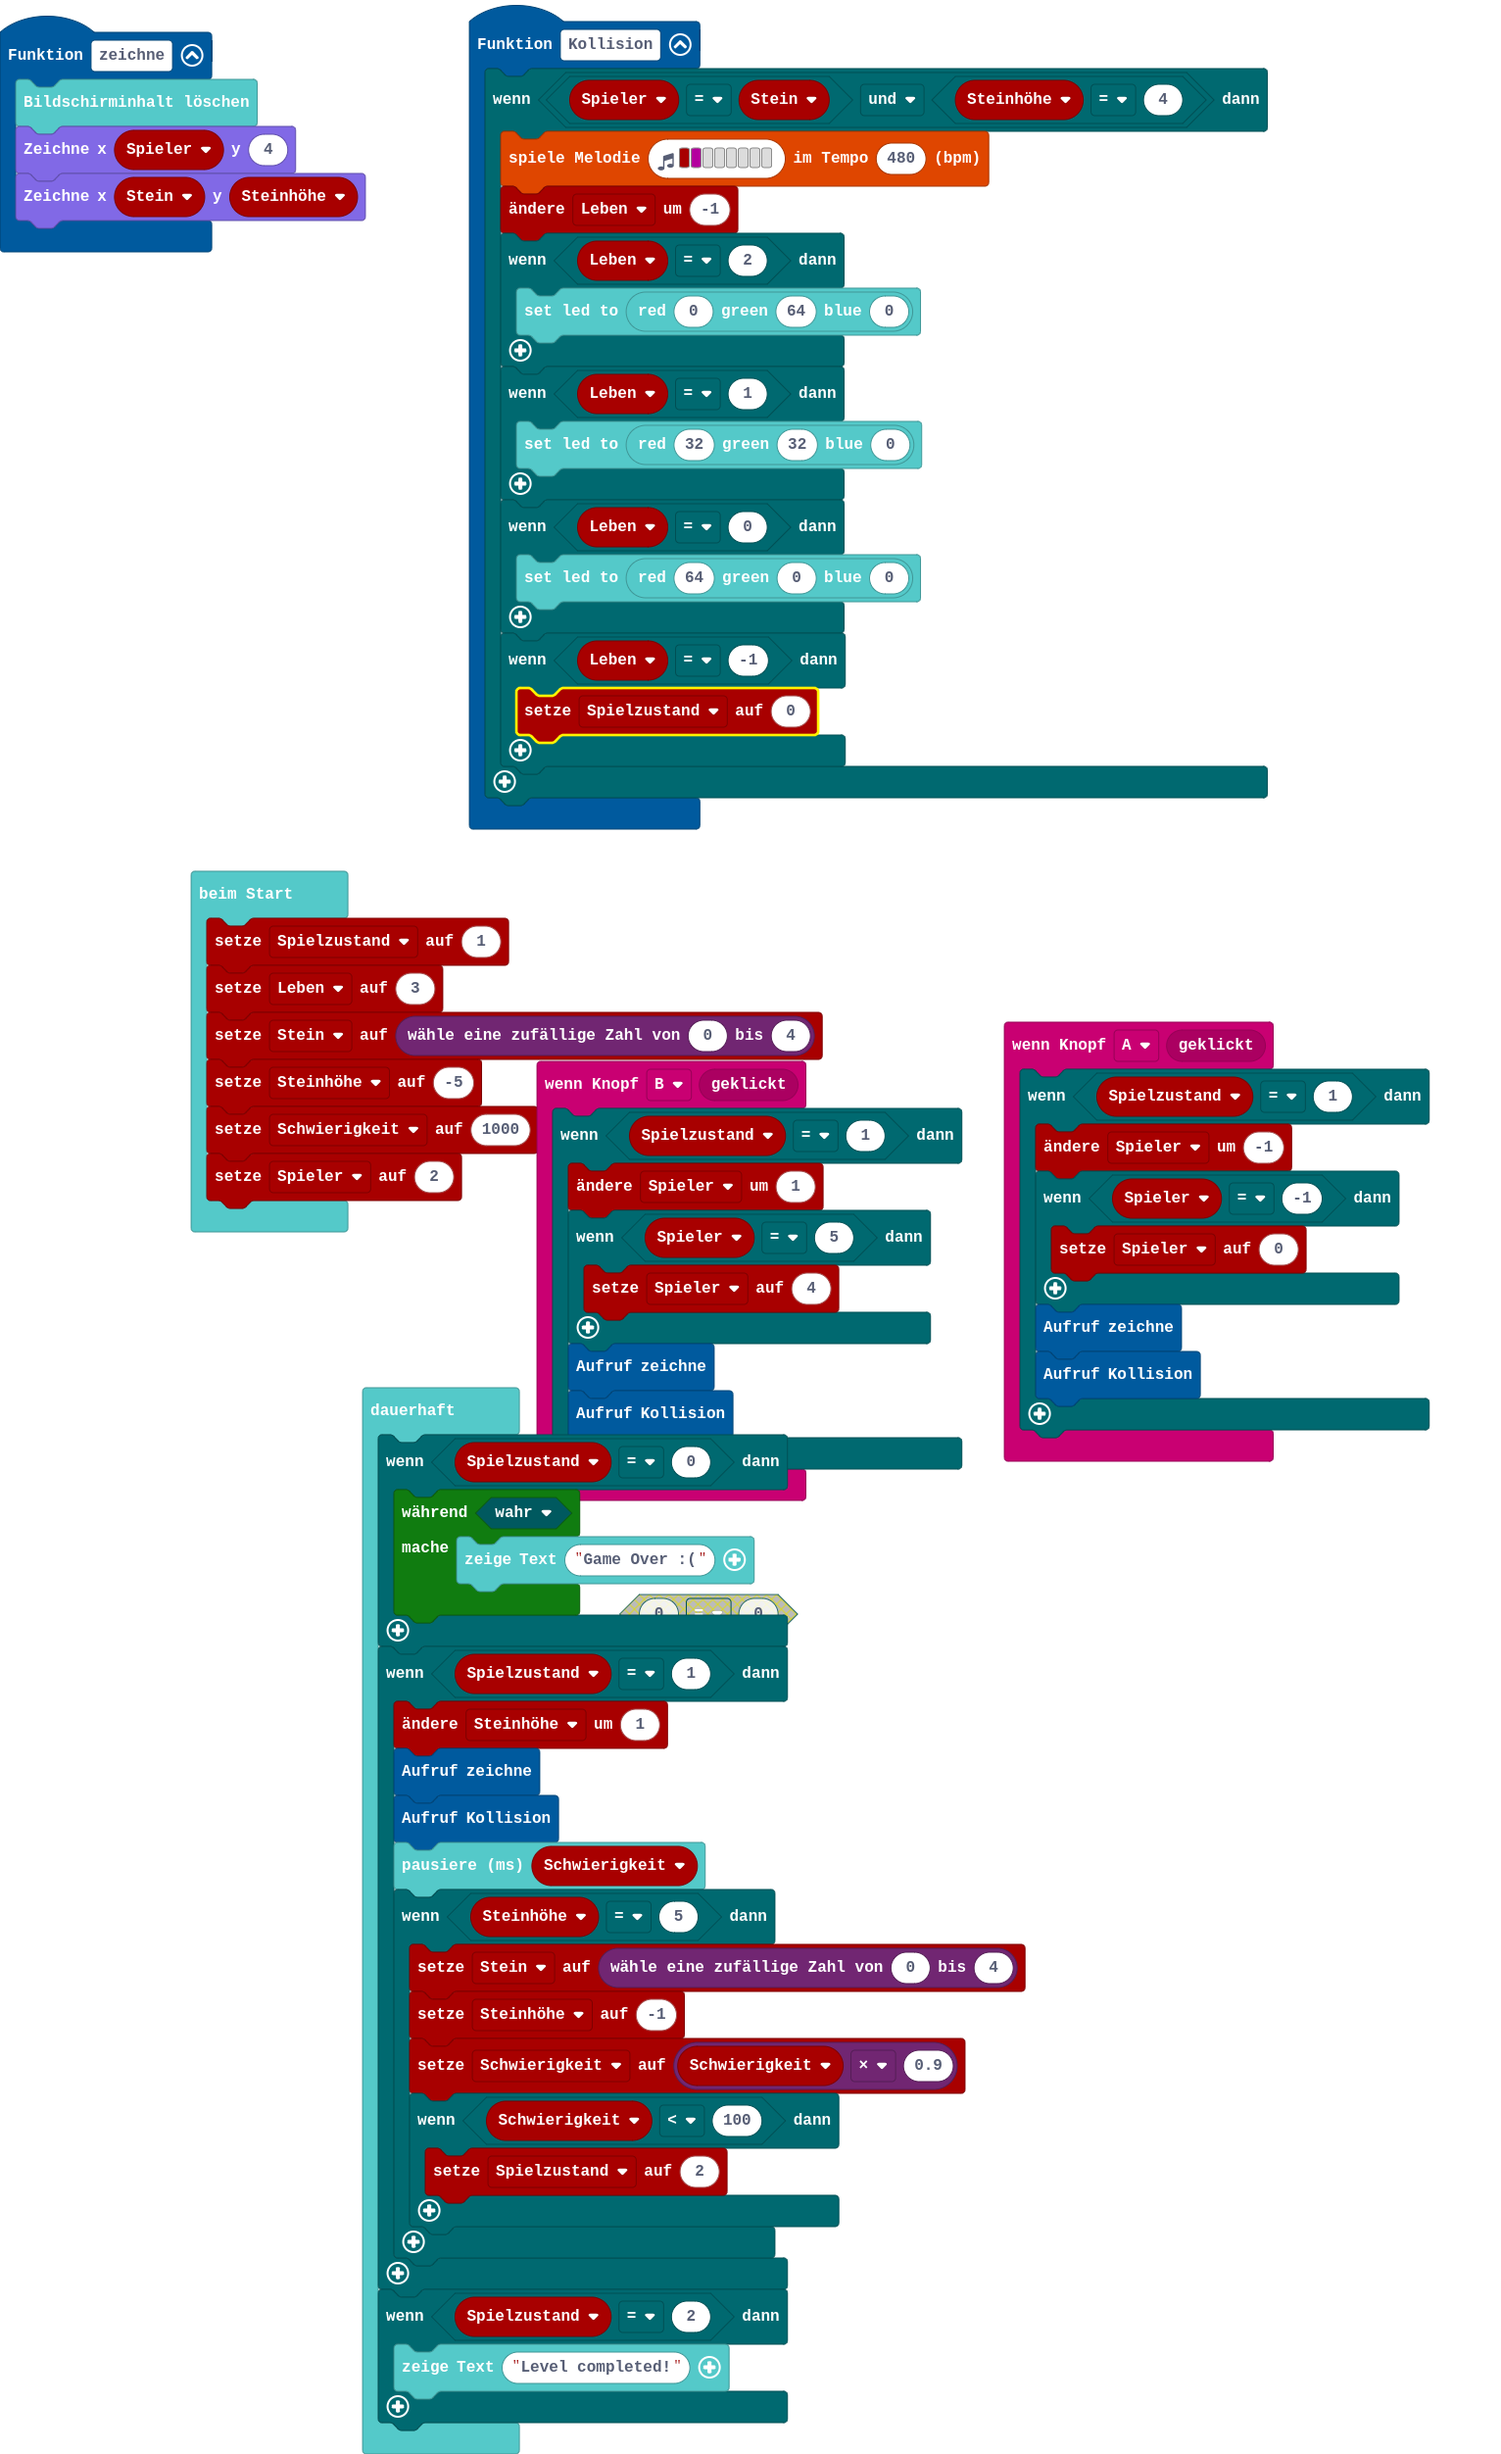
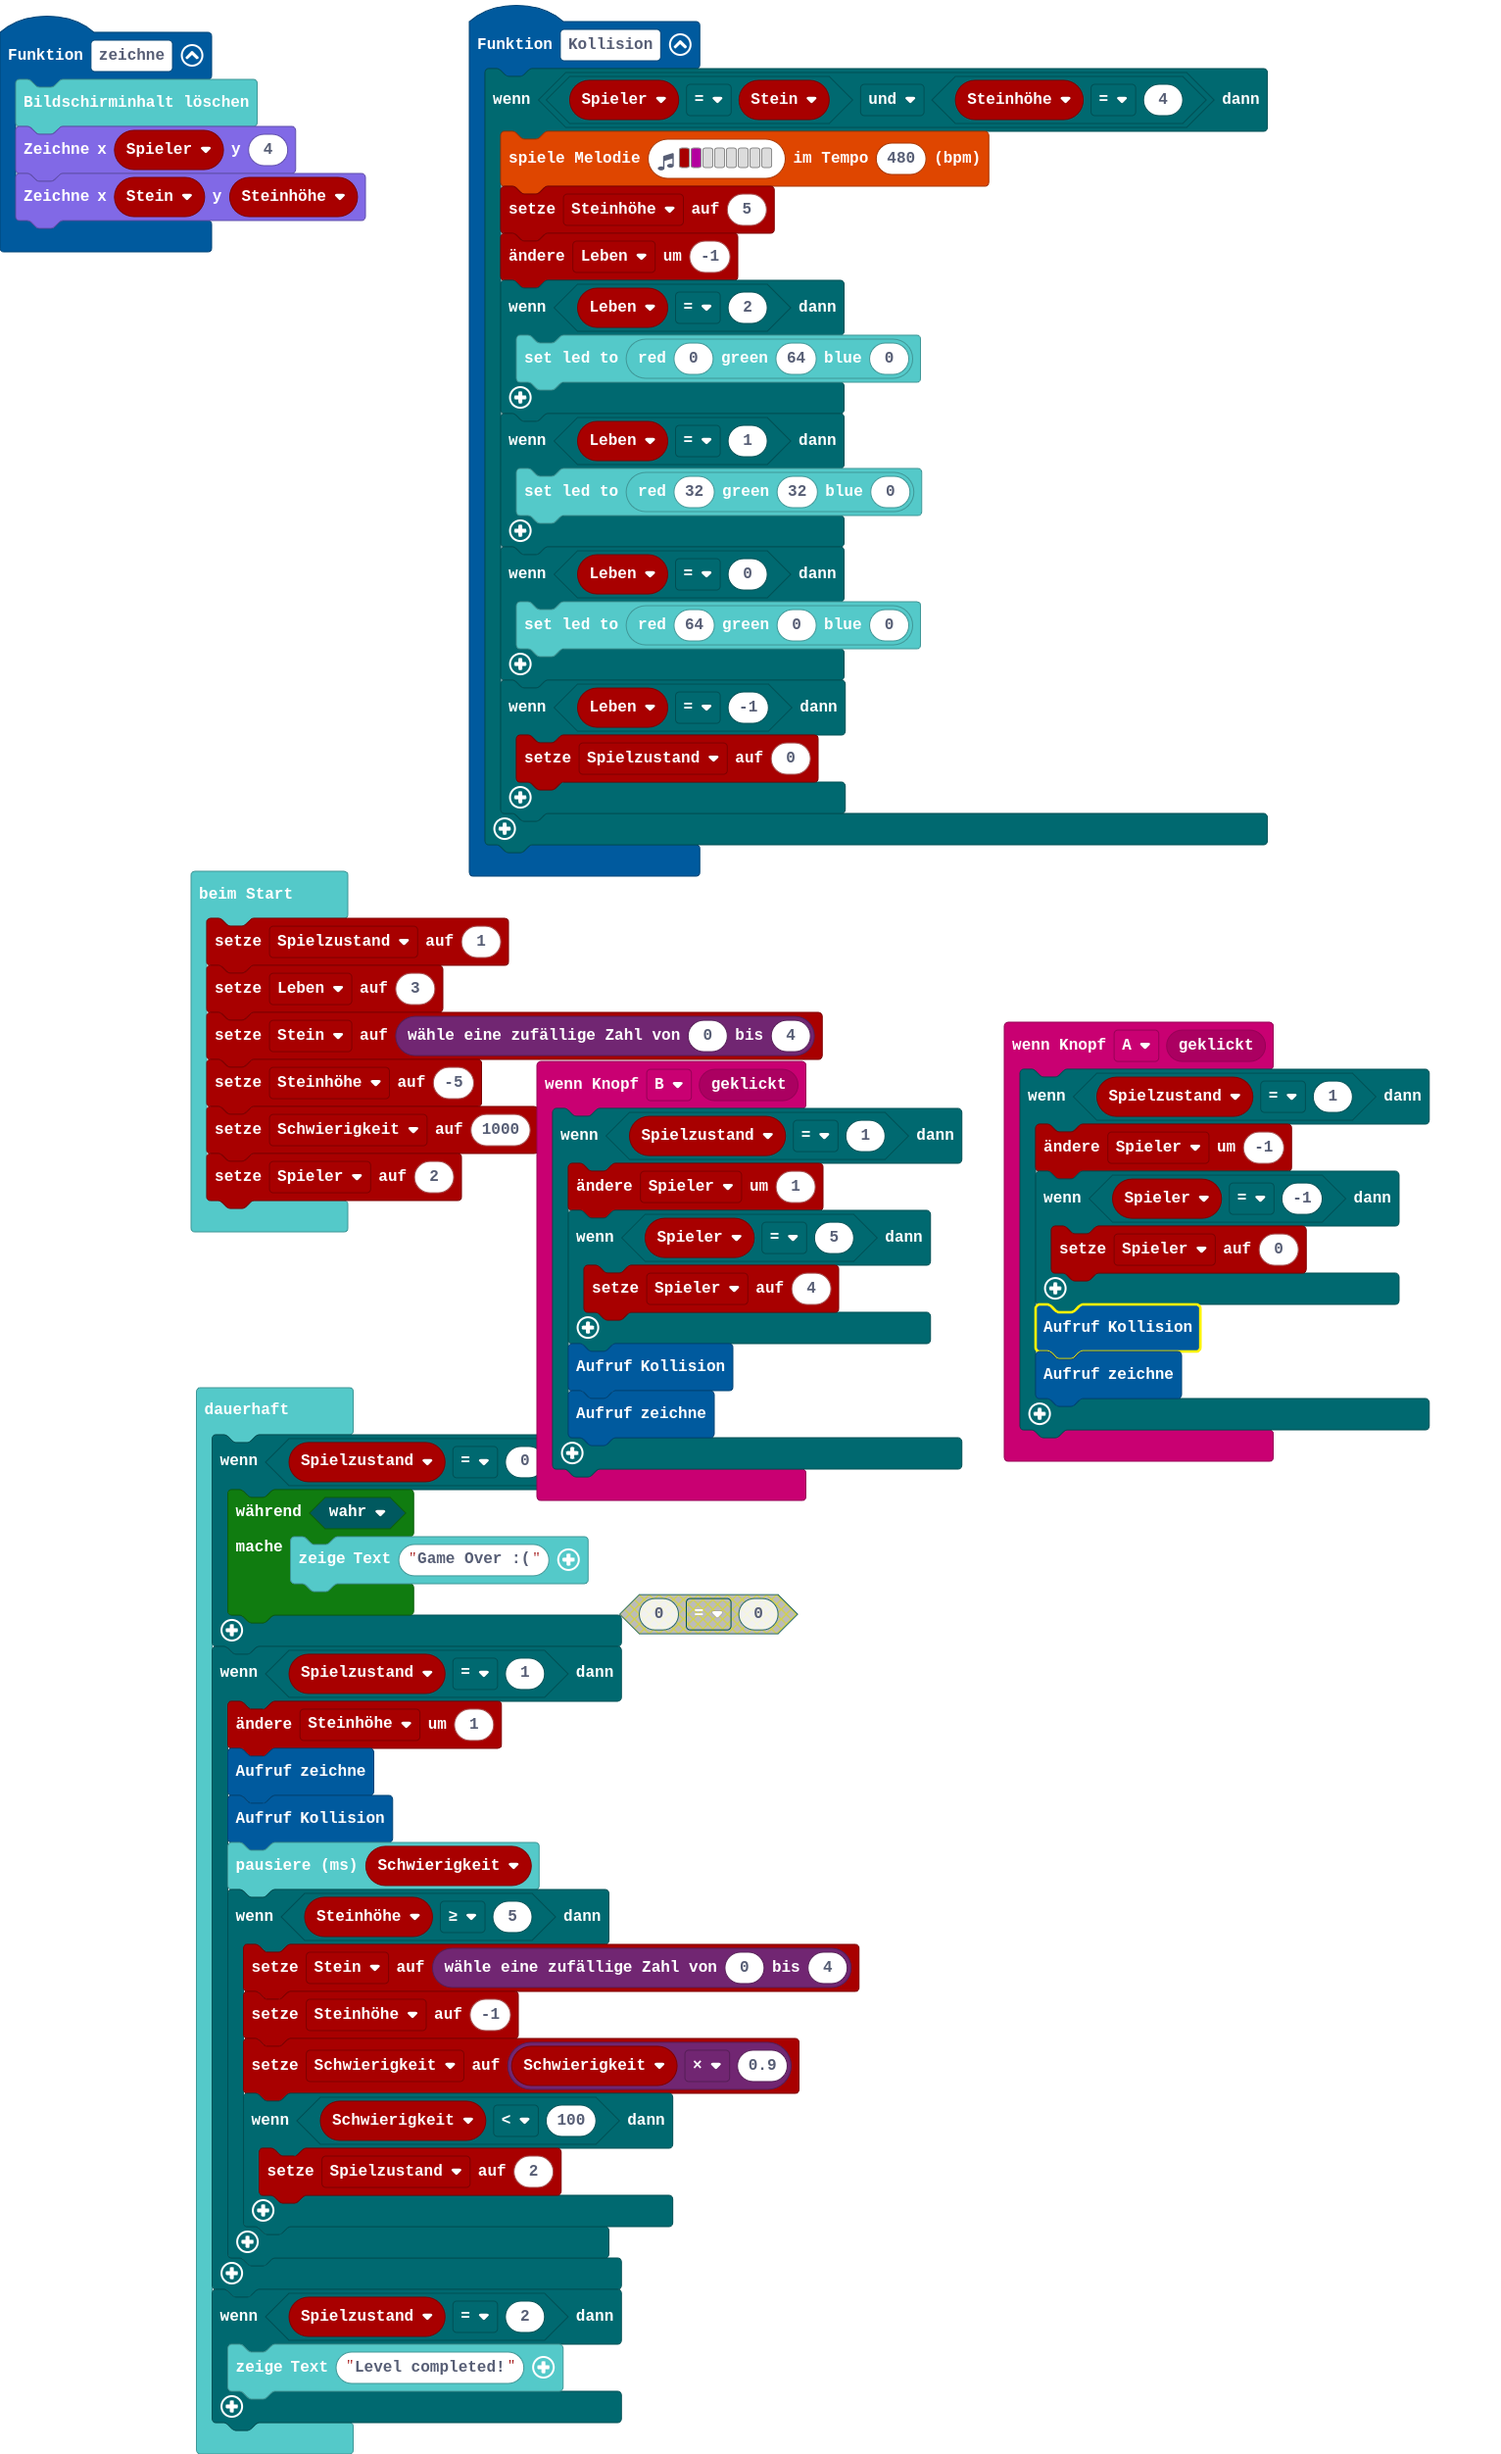
Aktualisiere main.blocks, main.ts

Changed region(s): [[0.1227, 0.5296, 0.7056, 1.0], [0.3068, 0.0623, 0.859, 0.3738], [0.7363, 0.5296, 0.7977, 0.5919]]

diff --git a/main.ts b/main.ts
@@ -4,8 +4,8 @@ input.onButtonEvent(Button.A, input.buttonEventClick(), function () {
         if (Spieler == -1) {
             Spieler = 0
         }
-        zeichne()
         Kollision()
+        zeichne()
     }
 })
 function zeichne () {
@@ -16,6 +16,7 @@ function zeichne () {
 function Kollision () {
     if (Spieler == Stein && Steinhöhe == 4) {
         music.playMelody("C5 C - - - - - - ", 480)
+        Steinhöhe = 5
         Leben += -1
         if (Leben == 2) {
             basic.setLedColor(basic.rgb(0, 64, 0))
@@ -37,8 +38,8 @@ input.onButtonEvent(Button.B, input.buttonEventClick(), function () {
         if (Spieler == 5) {
             Spieler = 4
         }
-        zeichne()
         Kollision()
+        zeichne()
     }
 })
 let Spieler = 0
@@ -63,7 +64,7 @@ basic.forever(function () {
         zeichne()
         Kollision()
         basic.pause(Schwierigkeit)
-        if (Steinhöhe == 5) {
+        if (Steinhöhe >= 5) {
             Stein = randint(0, 4)
             Steinhöhe = -1
             Schwierigkeit = Schwierigkeit * 0.9
